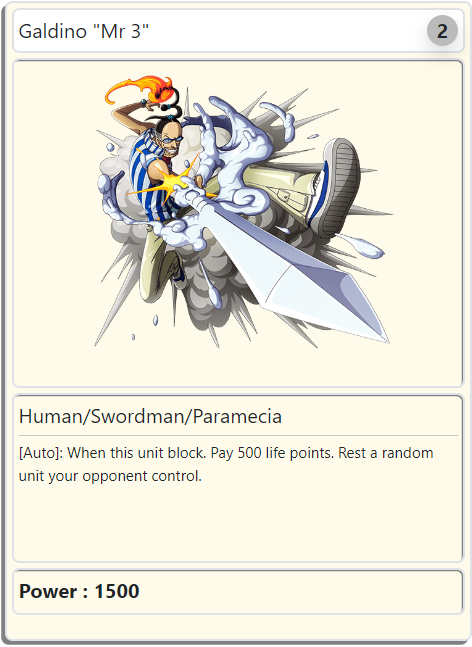
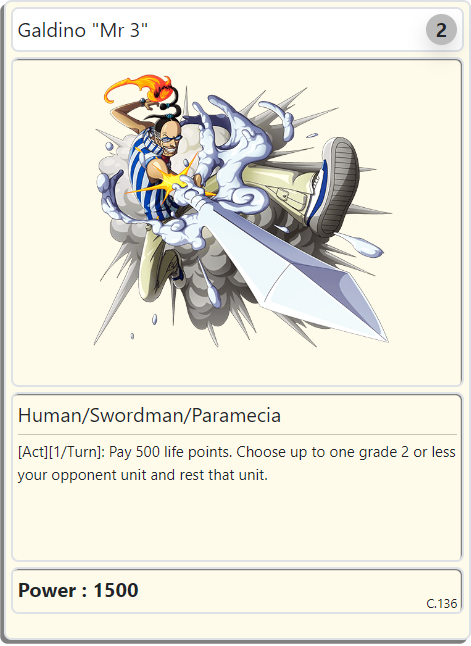
C135

diff --git a/src/views/index.vue b/src/views/index.vue
@@ -2534,7 +2534,8 @@ export default {
                 job: 'Spellcaster',
                 special: ''
               },
-              text: '[Cont]: When your opponent unit is call on the battlefield. Put top of your deck into drop zone. If that card send into drop zone is Grade 1, Rest that opponent call unit.',
+              text: '',
+              // text: '[Cont]: When your opponent unit is call on the battlefield. Put top of your deck into drop zone. If that card send into drop zone is Grade 1, Rest that opponent call unit.',
               power: 500,
               code: '137'
             },
@@ -2548,7 +2549,8 @@ export default {
                 job: 'Swordman',
                 special: 'Paramecia'
               },
-              text: '[Auto]: When this unit block. Pay 500 life points. Rest a random unit your opponent control.',
+              text: '[Act][1/Turn]: Pay 500 life points. Choose up to one grade 2 or less your opponent unit and rest that unit.',
+              // text: '[Auto]: When this unit block. Pay 500 life points. Rest a random unit your opponent control.',
               power: 1500,
               code: '136'
             },
@@ -2563,7 +2565,6 @@ export default {
                 special: ''
               },
               text: '',
-              // text: '[Auto]: When this unit block. This unit get Power + 2000, until end this turn. If your life points is grether than 500, pay 500 life points and this unit get Power + 1000, until end this turn.',
               power: 3000,
               code: '135'
             },
@@ -2578,7 +2579,6 @@ export default {
                 special: ''
               },
               text: '',
-              // text: '[Act][1/Turn]: Discard a random card from your hand and put top of your deck into drop zone. This unit get Power + 3000 until end this turn.',
               power: 3000,
               code: '134'
             },
@@ -2593,7 +2593,6 @@ export default {
                 special: 'Paramecia'
               },
               text: '[Auto]: When this unit is placed on battlefield. You may bind a random card from your hand, then increase your max mana equal to Grade that unit bind by this effect.',
-              // text: '[Auto]: When this unit is send into drop zone. Draw two cards, then discard a random card from your hand.',
               power: 500,
               code: '133'
             },
@@ -2608,7 +2607,6 @@ export default {
                 special: ''
               },
               text: '',
-              // text: '[Auto]: When this unit is placed on battlefield. Bind this card and Draw a card.',
               power: 1000,
               code: '132'
             },
@@ -2623,7 +2621,6 @@ export default {
                 special: ''
               },
               text: '[Auto]: When this unit is placed on battlefield. Put up to one random card from drop zone into your hand.',
-              // text: '[Auto]: When this unit is send into drop zone. Draw a card.',
               power: 500,
               code: '131'
             },
@@ -2666,7 +2663,6 @@ export default {
                 special: ''
               },
               text: '',
-              // text: '[Auto]: When this unit is send into drop zone. Destroy up to one random Grade 1 your opponent control.',
               power: 1000,
               code: '128'
             },

diff --git a/src/views/arena/new-arena/index.vue b/src/views/arena/new-arena/index.vue
@@ -2291,6 +2291,9 @@ export default {
         if (data.todo === 'bind') {
           this.bind({ who: data.target, location: units[index].location })
         }
+        if (data.todo === 'rest') {
+          this.rest({ who: data.target, location: units[index].location })
+        }
       }
     },
     RANDOM_FIELD_BY_NAME (data) {
@@ -2599,6 +2602,10 @@ export default {
       if (data.unit.card.code === '122') { this.EFF122(data) }
       if (data.unit.card.code === '125') { this.EFF125(data) }
       if (data.unit.card.code === '127') { this.EFF127(data) }
+      if (data.unit.card.code === '129') { this.EFF129(data) }
+      if (data.unit.card.code === '130') { this.EFF130(data) }
+      if (data.unit.card.code === '131') { this.EFF131(data) }
+      if (data.unit.card.code === '133') { this.EFF133(data) }
     },
     AUTO_ON_SEND_TO_DROP (data) {
       if (data.unit.card.code === '009') { this.EFF009(data) }
@@ -3017,6 +3024,17 @@ export default {
       }
       if (data.cost === 'bind on field') {
         this.bind(data)
+      }
+      if (data.cost === 'bind hand') {
+        if (data.who === 'player') {
+          data.hand = this.data.player.hand
+          data.bind = this.data.player.bind
+        } else {
+          data.hand = this.data.opponent.hand
+          data.bind = this.data.opponent.bind
+        }
+        data.bind.push(data.hand[data.index])
+        data.hand.splice(data.index, 1)
       }
     },
     // CARD EFFECT
@@ -5655,7 +5673,7 @@ export default {
     },
     EFF127 (data) { // Karoo
       this.$swal.fire({
-        title: 'Aktifkan Efek Vivi ?',
+        title: 'Aktifkan Efek Karoo ?',
         showCancelButton: true,
         confirmButtonText: 'YES',
         cancelButtonText: 'NO'
@@ -5666,11 +5684,42 @@ export default {
           data.name = 'Nefertari Vivi'
           data.todo = 'BIND TO HAND'
           this.SEARCH_BIND_FOR_NAME(data)
-          // for (let i = 0; i < 2; i++) {
-          //   this.draw({ who: data.who })
-          // }
         }
       })
+    },
+    EFF129 (data) { // Miss Valentine
+      data.grade = 1
+      data.todo = 'rest'
+      this.RANDOM_FIELD_OP_BY_GRADE_OR_LESS(data)
+    },
+    EFF130 (data) { // Mr 5
+      data.grade = 1
+      data.todo = 'destroy'
+      this.RANDOM_FIELD_OP_BY_GRADE_OR_LESS(data)
+    },
+    EFF131 (data) { // Nami
+      data.name = ''
+      data.todo = 'BIND TO HAND'
+      this.SEARCH_BIND_FOR_NAME(data)
+    },
+    EFF133 (data) { // Nico Robin
+      if (data.who === 'player') {
+        data.hand = this.data.player.hand
+      } else {
+        data.hand = this.data.opponent.hand
+      }
+      if (data.hand.length > 0) {
+        data.index = Math.floor(Math.random() * data.hand.length)
+        if (data.who === 'player') {
+          this.data.player.mana.max += data.hand[data.index].grade
+        } else {
+          this.data.opponent.mana.max += data.hand[data.index].grade
+        }
+        data.cost = 'bind hand'
+        this.COST(data)
+      } else {
+        this.Toast('error', 'Tidak ada kartu untuk discard !!!')
+      }
     }
   },
   created () {
